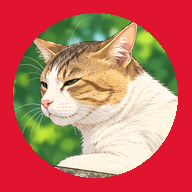
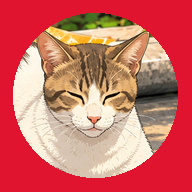
Use Mr. Bob's real photo instead of the 3D model
- Hero shows his sunny nap photo as a floating 3D glass card that tilts with the pointer
- Card reacts while listening, thinking and speaking; tap for hearts
- New face avatar and app icons; removed the Three.js model and extra photos

diff --git a/frontend/assets/cat.js b/frontend/assets/cat.js
@@ -1,80 +1,36 @@
-/* Mr. Bob, the 3D cat. Exposes window.MrBobCat = {state, hop(n), mount(el), onTap}. */
+/* Mr. Bob on screen: his photo, with a little life.
+   Exposes window.MrBobCat = {state, hop(n), mount(el), onTap}. */
 (function(){
 const reduce=matchMedia("(prefers-reduced-motion: reduce)").matches;
-const api={state:"idle",hop(){},mount(){},onTap:null,fallback:false};
-window.MrBobCat=api;
-const stage=document.getElementById("stage"),vstage=document.getElementById("vstage");
-let renderer=null,mx=0,my=0,jumpT=-1;
-if(window.THREE){
- const T=THREE;
- renderer=new T.WebGLRenderer({antialias:true,alpha:true});
- renderer.setPixelRatio(Math.min(devicePixelRatio||1,2));
- renderer.outputEncoding=T.sRGBEncoding;
- stage.appendChild(renderer.domElement);
- const scene=new T.Scene();
- const cam=new T.PerspectiveCamera(30,1,.1,100);
- scene.add(new T.HemisphereLight(0xffffff,0xd9c6cc,.75));
- const key=new T.DirectionalLight(0xffffff,.55);key.position.set(2,4,5);scene.add(key);
- const fill=new T.DirectionalLight(0xffe6ea,.25);fill.position.set(-3,1,2);scene.add(fill);
- const M=(c,o)=>new T.MeshStandardMaterial(Object.assign({color:c,roughness:.92,metalness:0},o||{}));
- const furW=M(0xfffaf6),peach=M(0xc78d55),tabby=M(0xc08a52),stripe=M(0x8d5c30),green=M(0x86b84a,{emissive:0x1e3308,roughness:.25}),pink=M(0xffb3c1),eyeM=M(0x1b1416,{roughness:.22}),glow=M(0xffffff,{emissive:0xffffff}),red=M(0xe0142f,{roughness:.55}),lip=M(0x6a4a50);
- const S=(r,m,x,y,z,sx,sy,sz,p)=>{const o=new T.Mesh(new T.SphereGeometry(r,48,36),m);o.position.set(x,y,z);o.scale.set(sx||1,sy||1,sz||1);p.add(o);return o};
- const cat=new T.Group();scene.add(cat);
- const bodyG=new T.Group();cat.add(bodyG);
- S(.62,furW,0,-1.02,0,1.05,.95,.95,bodyG);
- S(.36,tabby,.22,-.74,-.3,1.15,.7,.95,bodyG);S(.33,tabby,-.3,-1.12,-.38,1.1,.85,.9,bodyG);S(.31,tabby,.48,-1.39,.03,1.02,.77,1.22,bodyG);
- [-1,1].forEach(s=>{S(.3,furW,s*.48,-1.4,.05,1,.75,1.2,bodyG);S(.2,furW,s*.24,-1.52,.42,1,.62,1.15,bodyG);S(.05,pink,s*.24,-1.58,.62,1.2,.5,.5,bodyG)});
- const head=new T.Group();head.position.set(0,.1,0);cat.add(head);
- S(1,furW,0,0,0,1.18,.95,1,head);
- [-1,1].forEach(s=>S(.42,furW,s*.42,-.32,.5,1.05,.85,.8,head));
- S(1,tabby,0,.17,-.06,1.2,.86,.98,head);[-.2,0,.2].forEach((x,i)=>{const st=S(.05,stripe,x,.6-(i===1?.02:0),.79,1,2.6,.45,head);st.rotation.z=-x*.9});[-1,1].forEach(s=>[.18,.32].forEach(y=>{const st=S(.045,stripe,s*.98,y,.5,.6,1,2.4,head);st.rotation.y=s*.9}));
- const ear=s=>{const g=new T.Group();g.position.set(s*.68,.62,-.05);g.rotation.z=-s*.5;head.add(g);const o=new T.Mesh(new T.ConeGeometry(.34,.52,40),tabby);o.position.y=.24;o.scale.z=.72;g.add(o);const tip=new T.Mesh(new T.SphereGeometry(.06,16,12),tabby);tip.position.y=.49;g.add(tip);const i=new T.Mesh(new T.ConeGeometry(.2,.34,32),pink);i.position.set(0,.2,.1);i.scale.z=.45;g.add(i);return g};
- const earL=ear(-1),earR=ear(1);
- const eyes=[-1,1].map(s=>{const g=new T.Group();g.position.set(s*.4,-.06,.9);head.add(g);S(.21,eyeM,0,0,0,1,1.3,.5,g);S(.165,green,0,-.03,.05,1,1.25,.42,g);S(.095,eyeM,0,-.01,.09,.78,1.45,.4,g);S(.07,glow,.07,.1,.115,1,1,1,g);S(.033,glow,-.06,-.1,.12,1,1,1,g);return g});
- const blushM=new T.MeshBasicMaterial({color:0xff8fa6,transparent:true,opacity:.5,depthWrite:false});
- [-1,1].forEach(s=>{const b=new T.Mesh(new T.CircleGeometry(.11,32),blushM);b.position.set(s*.62,-.28,.8);b.rotation.y=s*.7;b.scale.y=.62;head.add(b)});
- S(.05,pink,0,-.26,.985,1.45,1,.8,head);
- [-1,1].forEach(s=>{const a=new T.Mesh(new T.TorusGeometry(.05,.012,8,20,Math.PI),lip);a.rotation.z=Math.PI;a.position.set(s*.05,-.33,.985);head.add(a)});
- const mouth=S(.07,M(0xe8768c),0,-.4,.96,1,.01,.4,head);
- const bow=new T.Group();bow.position.set(0,-.8,.6);bow.rotation.x=-.3;bow.scale.setScalar(.8);cat.add(bow);
- [-1,1].forEach(s=>{const c=new T.Mesh(new T.ConeGeometry(.17,.32,32),red);c.rotation.z=s*Math.PI/2;c.position.x=s*.16;c.scale.z=.55;bow.add(c)});
- S(.07,red,0,0,.02,1,1,.8,bow);
- const tail=[];for(let i=0;i<13;i++)tail.push(S(.13-i*.004,i%3===2?stripe:tabby,0,0,0,1,1,1,cat));
- const sc=document.createElement("canvas");sc.width=sc.height=128;const sx=sc.getContext("2d");const gr=sx.createRadialGradient(64,64,0,64,64,64);gr.addColorStop(0,"rgba(60,20,30,.32)");gr.addColorStop(1,"rgba(60,20,30,0)");sx.fillStyle=gr;sx.fillRect(0,0,128,128);
- const shadow=new T.Mesh(new T.PlaneGeometry(2.8,1.3),new T.MeshBasicMaterial({map:new T.CanvasTexture(sc),transparent:true,depthWrite:false}));shadow.rotation.x=-Math.PI/2;shadow.position.y=-1.72;scene.add(shadow);
- const hs=new T.Shape();hs.moveTo(0,.25);hs.bezierCurveTo(0,.3,-.05,.4,-.2,.4);hs.bezierCurveTo(-.45,.4,-.45,.12,-.45,.12);hs.bezierCurveTo(-.45,-.05,-.27,-.22,0,-.4);hs.bezierCurveTo(.27,-.22,.45,-.05,.45,.12);hs.bezierCurveTo(.45,.12,.45,.4,.2,.4);hs.bezierCurveTo(.05,.4,0,.3,0,.25);
- const hg=new T.ExtrudeGeometry(hs,{depth:.1,bevelEnabled:true,bevelSize:.04,bevelThickness:.04,bevelSegments:3});hg.center();hg.rotateZ(Math.PI);
- const hearts=[];
- api.hop=(n)=>{jumpT=0;for(let i=0;i<(n||0);i++){const h=new T.Mesh(hg,new T.MeshStandardMaterial({color:0xff4d6d,transparent:true,roughness:.5}));h.position.set((Math.random()-.5)*1.2,.9,.5);h.scale.setScalar(.18+Math.random()*.1);h.userData={vy:1+Math.random()*.6,vx:(Math.random()-.5)*.6,life:0};scene.add(h);hearts.push(h)}};
- const ray=new T.Raycaster(),pv=new T.Vector2();
- renderer.domElement.addEventListener("pointerdown",e=>{const r=renderer.domElement.getBoundingClientRect();pv.set((e.clientX-r.left)/r.width*2-1,-(e.clientY-r.top)/r.height*2+1);ray.setFromCamera(pv,cam);if(ray.intersectObject(cat,true).length){api.hop(3);const lines=["Meow! Ami Mr. Bob.","Hehe, sursuri lage!","Ki khobor, Jonayed?","Purr… always here for you."];if(api.onTap)api.onTap(lines[Math.floor(Math.random()*lines.length)])}});
- const fit=()=>{const p=renderer.domElement.parentNode;if(!p)return;const w=p.clientWidth,h=p.clientHeight;if(!w||!h)return;renderer.setSize(w,h,false);cam.aspect=w/h;cam.position.set(0,.05,Math.max(7.2,5.4/cam.aspect));cam.lookAt(0,-.35,0);cam.updateProjectionMatrix()};
- const ro=new ResizeObserver(fit);ro.observe(stage);ro.observe(vstage);
- addEventListener("pointermove",e=>{mx=e.clientX/innerWidth*2-1;my=e.clientY/innerHeight*2-1});
- let nextBlink=2,blinkT=-1,nextTwitch=3,twitchT=-1;const clock=new T.Clock();
- const loop=()=>{
-  const dt=Math.min(clock.getDelta(),.05),t=clock.elapsedTime,k=reduce?.3:1;
-  let jy=0,sq=1;if(jumpT>=0){jumpT+=dt;const p=jumpT/.6;if(p>=1)jumpT=-1;else{jy=Math.sin(p*Math.PI)*.45;sq=p<.15?1-p:p>.85?1-(1-p):1.05}}
-  const br=1+Math.sin(t*2.2)*.012*k;
-  cat.position.y=Math.sin(t*1.5)*.035*k+jy;bodyG.scale.set(1/Math.sqrt(sq),sq*br,1/Math.sqrt(sq));
-  shadow.scale.setScalar(1-jy*.5);shadow.material.opacity=1-jy;
-  const ty=api.state==="thinking"?Math.sin(t*1.2)*.3:mx*.4,tx=api.state==="thinking"?-.15:my*.2;
-  head.rotation.y+=(ty-head.rotation.y)*.07;head.rotation.x+=(tx-head.rotation.x)*.07;
-  const tz=api.state==="listening"?-.18:api.state==="thinking"?.15:Math.sin(t*.6)*.07*k;head.rotation.z+=(tz-head.rotation.z)*.06;
-  if(t>nextBlink){blinkT=0;nextBlink=t+2.2+Math.random()*3}
-  let ey=1;if(blinkT>=0){blinkT+=dt;ey=blinkT<.07?1-blinkT/.07*.92:blinkT<.15?.08+(blinkT-.07)/.08*.92:1;if(blinkT>.15)blinkT=-1}
-  if(jumpT>=0)ey=.15;
-  eyes.forEach(g=>g.scale.y=ey);
-  if(t>nextTwitch){twitchT=0;nextTwitch=t+3+Math.random()*4}
-  let tw=0;if(twitchT>=0){twitchT+=dt;tw=Math.sin(twitchT*30)*.14;if(twitchT>.3)twitchT=-1}
-  const perk=api.state==="listening"?.25:0;
-  earL.rotation.x+=(-perk-earL.rotation.x)*.1;earR.rotation.x+=(-perk-earR.rotation.x)*.1;earL.rotation.z=.5+tw;earR.rotation.z=-.5;
-  const mo=api.state==="speaking"?.15+Math.abs(Math.sin(t*13))*.85:jumpT>=0?.8:.01;mouth.scale.y+=(mo-mouth.scale.y)*.35;
-  let x=.45,y=-1.35,z=-.45;tail.forEach((s,i)=>{const a=Math.sin(t*2.2*k-i*.4)*.5*(i/12)+.35-(i>8?(i-8)*.3:0);x+=Math.sin(a)*.11;y+=Math.cos(a)*.11;z-=.03;s.position.set(x,y,z)});
-  for(let i=hearts.length-1;i>=0;i--){const h=hearts[i],u=h.userData;u.life+=dt;h.position.y+=u.vy*dt;h.position.x+=u.vx*dt;h.material.opacity=Math.max(0,1-u.life/1.4);if(u.life>1.4){scene.remove(h);h.material.dispose();hearts.splice(i,1)}}
-  renderer.render(scene,cam);requestAnimationFrame(loop)};
- api.mount=el=>{el.appendChild(renderer.domElement);fit()};
- fit();loop();
-}else{stage.insertAdjacentHTML("beforeend",'<div class="fallback"></div>');api.fallback=true}
+const pic=document.createElement("div");
+pic.className="bobpic";pic.dataset.state="idle";
+pic.innerHTML='<div class="bobglow"></div><div class="bobcard glass"><img src="/assets/bob.jpg" alt="Mr. Bob, a white and brown tabby cat, napping happily in the sun" draggable="false"></div>';
 
+let state="idle";
+const api={
+  get state(){return state},
+  set state(s){state=s;pic.dataset.state=s},
+  hop(n){pic.classList.remove("hop");void pic.offsetWidth;pic.classList.add("hop");for(let i=0;i<(n||0);i++)heart(i)},
+  mount(el){if(el)el.appendChild(pic)},
+  onTap:null,
+};
+window.MrBobCat=api;
+
+function heart(i){
+  const h=document.createElement("span");h.className="heart";h.textContent="♥";
+  h.style.left=(38+Math.random()*24)+"%";h.style.animationDelay=(i*.12)+"s";
+  pic.appendChild(h);setTimeout(()=>h.remove(),2000);
+}
+
+const lines=["Meow! Ami Mr. Bob.","Hehe, sursuri lage!","Ki khobor, Jonayed?","Purr… always here for you.","Shh… roder moddhe ghumacchilam."];
+pic.addEventListener("click",()=>{api.hop(3);if(api.onTap)api.onTap(lines[Math.floor(Math.random()*lines.length)])});
+
+// the photo tilts toward your pointer, like a card in your hand
+if(!reduce)addEventListener("pointermove",e=>{
+  const r=pic.getBoundingClientRect();if(!r.width)return;
+  const x=(e.clientX-(r.left+r.width/2))/innerWidth,y=(e.clientY-(r.top+r.height/2))/innerHeight;
+  pic.style.setProperty("--rx",(-y*16).toFixed(2)+"deg");pic.style.setProperty("--ry",(x*20).toFixed(2)+"deg");
+},{passive:true});
+
+api.mount(document.getElementById("stage"));
 })();

diff --git a/frontend/assets/style.css b/frontend/assets/style.css
@@ -46,7 +46,6 @@ nav b{font-weight:600;font-size:15px;white-space:nowrap}nav span{font-size:13px;
 .stage{position:relative;height:clamp(320px,44vw,440px);margin:6px auto 0;max-width:560px;cursor:pointer}
 .stage canvas,.vstage canvas{position:absolute;inset:0;width:100%!important;height:100%!important;display:block}
 .say{position:absolute;top:2%;left:50%;transform:translateX(-50%);max-width:min(88%,380px);width:max-content;padding:11px 18px;border-radius:22px;font-size:15px;z-index:2;pointer-events:none}
-.fallback{position:absolute;inset:22% 30%;border-radius:50%;background:radial-gradient(circle at 40% 35%,#fff,#ffe1e6 60%,#ffc2cc)}
 .ctas{display:flex;gap:12px;justify-content:center;flex-wrap:wrap}
 .pill{display:inline-flex;align-items:center;gap:10px;min-height:54px;padding:0 24px 0 9px;border-radius:999px;font-size:17px;font-weight:600}
 .pill.plain{padding:0 22px;font-weight:500}
@@ -186,17 +185,29 @@ h2.sub{font-size:22px;margin-top:10px;display:flex;align-items:center;gap:10px}
 .amt.in{color:var(--green)}.amt.out{color:var(--ink)}
 .log .item>span:first-child{width:70px!important}
 
-/* ---------- Mr. Bob's photos, floating in 3D around him ---------- */
-.stage{perspective:900px}
-.stage canvas{z-index:1}
-.photo{position:absolute;margin:0;width:min(34%,190px);aspect-ratio:3/4;padding:7px;border-radius:22px;z-index:0;
-  transform-style:preserve-3d;transition:transform .6s var(--spring);will-change:transform}
-.photo img{display:block;width:100%;height:100%;object-fit:cover;border-radius:16px;box-shadow:0 10px 30px rgba(80,20,40,.25)}
-.photo.p1{left:0;top:16%;transform:rotateY(calc(24deg + var(--px,0)*10deg)) rotateX(calc(var(--py,0)*-8deg)) rotateZ(-7deg) translateZ(-40px);animation:bob1 7s ease-in-out infinite}
-.photo.p2{right:0;top:30%;transform:rotateY(calc(-24deg + var(--px,0)*10deg)) rotateX(calc(var(--py,0)*-8deg)) rotateZ(6deg) translateZ(-40px);animation:bob2 8s ease-in-out infinite}
-@keyframes bob1{50%{translate:0 -12px}}
-@keyframes bob2{50%{translate:0 10px}}
+/* ---------- Mr. Bob: his photo, alive ---------- */
+.stage{perspective:1000px}
+.bobpic{position:absolute;inset:56px 0 0;display:grid;place-items:center;cursor:pointer;z-index:1;-webkit-tap-highlight-color:transparent}
+.vstage .bobpic{inset:0}
+.bobglow{position:absolute;width:72%;aspect-ratio:1;border-radius:50%;background:radial-gradient(closest-side,rgba(255,110,135,.55),transparent);filter:blur(24px);transition:scale .5s var(--spring),opacity .4s}
+.bobcard{width:min(94%,500px);aspect-ratio:4/3;padding:8px;border-radius:34px;transform:rotateX(var(--rx,0deg)) rotateY(var(--ry,0deg));transform-style:preserve-3d;transition:transform .6s var(--spring),scale .5s var(--spring);animation:float 5s ease-in-out infinite}
+.vstage .bobcard{width:min(88%,420px)}
+.bobcard img{display:block;width:100%;height:100%;object-fit:cover;border-radius:27px;user-select:none;box-shadow:0 14px 34px rgba(80,20,40,.22)}
+@keyframes float{50%{translate:0 -8px}}
+.bobpic[data-state=listening] .bobcard{scale:1.04}
+.bobpic[data-state=listening] .bobglow{scale:1.25;animation:pulse 1s ease-in-out infinite}
+.bobpic[data-state=thinking] .bobcard{animation:think 1.6s ease-in-out infinite}
+.bobpic[data-state=speaking] .bobcard{animation:talk .45s ease-in-out infinite}
+.bobpic[data-state=speaking] .bobglow{scale:1.3;opacity:1}
+@keyframes pulse{50%{opacity:.55}}
+@keyframes think{25%{rotate:-2deg}75%{rotate:2deg}}
+@keyframes talk{50%{scale:1.025}}
+.bobpic.hop .bobcard{animation:hop .65s var(--spring)}
+@keyframes hop{35%{translate:0 -26px;scale:1.04 .97}70%{translate:0 0;scale:1.03 .96}}
+.heart{position:absolute;bottom:38%;z-index:2;color:#ff3d64;font-size:30px;pointer-events:none;text-shadow:0 3px 8px rgba(120,0,30,.25);animation:heart 1.6s ease-out forwards}
+@keyframes heart{to{translate:0 -170px;scale:1.5;opacity:0}}
 .av,.av.big{background:url(/assets/bob-face.jpg) center/cover!important}
-@media(max-width:600px){.photo{width:30%}.photo.p1{top:22%}.photo.p2{top:38%}}
-@media(prefers-reduced-motion:reduce){.photo{animation:none}}
-.fallback{inset:auto!important;left:50%!important;top:52%!important;transform:translate(-50%,-50%);width:min(52%,230px);aspect-ratio:1;border-radius:50%;background:url(/assets/bob-face.jpg) center/cover!important;box-shadow:0 0 0 6px rgba(255,255,255,.7),0 18px 40px rgba(224,20,47,.25)}
+@media(prefers-reduced-motion:reduce){.bobcard,.bobglow,.heart{animation:none!important}}
+#stage{height:auto}
+#stage>.say{position:relative;top:auto;left:auto;transform:none;margin:4px auto 0;display:block}
+#stage .bobpic{position:relative;inset:auto;padding:14px 0 24px}

diff --git a/frontend/assets/app.js b/frontend/assets/app.js
@@ -78,11 +78,6 @@ $("#conns").addEventListener("click",async e=>{const b=e.target.closest(".sw");i
 $("#accounts").addEventListener("click",async e=>{if(e.target.id==="gOff"){await post("/google/disconnect");load()}if(e.target.id==="wakeSw"){setWake(!wakeOn);e.target.setAttribute("aria-checked",wakeOn)}});
 $("#briefNow").addEventListener("click",async()=>{toast("Sending your briefing to Telegram…");const r=await post("/briefing/morning").catch(e=>({text:""}));if(r.text){bubble("bob",r.text)}toast(r.text?"Briefing sent":"Couldn't make the briefing")});
 
-/* photos tilt with the pointer */
-const stageEl=$("#stage");
-addEventListener("pointermove",e=>{if(reduce)return;stageEl.style.setProperty("--px",(e.clientX/innerWidth*2-1).toFixed(3));stageEl.style.setProperty("--py",(e.clientY/innerHeight*2-1).toFixed(3))},{passive:true});
-addEventListener("scroll",()=>{if(!reduce)stageEl.style.setProperty("--py",Math.max(-1,Math.min(1,scrollY/400)).toFixed(3))},{passive:true});
-
 /* glass shine follows the pointer */
 addEventListener("pointermove",e=>{const g=e.target.closest&&e.target.closest(".glass");if(!g)return;const r=g.getBoundingClientRect();g.style.setProperty("--mx",(e.clientX-r.left)+"px");g.style.setProperty("--my",(e.clientY-r.top)+"px")},{passive:true});
 const io=new IntersectionObserver(es=>es.forEach(e=>{if(e.isIntersecting){e.target.classList.add("in");io.unobserve(e.target)}}),{threshold:.08});

diff --git a/frontend/index.html b/frontend/index.html
@@ -24,8 +24,6 @@
  <h1 id="hello">Hi, I'm Mr. Bob.</h1>
  <p>I keep an eye on your mail, calendar and weather, and tell you what matters. Talk to me in English, বাংলা or Banglish.</p>
  <div class="stage" id="stage">
-  <figure class="photo glass p1"><img src="/assets/bob-photo-1.jpg" alt="Mr. Bob resting in the sun"></figure>
-  <figure class="photo glass p2"><img src="/assets/bob-photo-2.jpg" alt="Mr. Bob napping on a wall under a tree"></figure>
   <div class="say glass" id="say">Purr… loading your day.</div>
  </div>
  <div class="ctas">
@@ -123,7 +121,6 @@
 
 <div class="toast glass" id="toast" hidden></div>
 
-<script src="https://cdnjs.cloudflare.com/ajax/libs/three.js/r128/three.min.js"></script>
 <script src="/assets/cat.js"></script>
 <script src="/assets/app.js"></script>
 </body>

diff --git a/frontend/sw.js b/frontend/sw.js
@@ -1,6 +1,6 @@
 /* Lets Mr. Bob install like an app and open even with a weak connection. */
-const CACHE = "mrbob-v2";
-const SHELL = ["/", "/assets/style.css", "/assets/app.js", "/assets/cat.js", "/assets/icon.svg", "/assets/bob-face.jpg", "/assets/bob-photo-1.jpg", "/assets/bob-photo-2.jpg", "/manifest.webmanifest"];
+const CACHE = "mrbob-v3";
+const SHELL = ["/", "/assets/style.css", "/assets/app.js", "/assets/cat.js", "/assets/icon.svg", "/assets/bob-face.jpg", "/assets/bob.jpg", "/manifest.webmanifest"];
 
 self.addEventListener("install", e => {
   e.waitUntil(caches.open(CACHE).then(c => c.addAll(SHELL)).then(() => self.skipWaiting()));

diff --git a/README.md b/README.md
@@ -23,12 +23,12 @@ Mr. Bob is a cute butler cat who keeps an eye on your day. He reads your Gmail a
 | Phone app | Install the dashboard on your home screen; it opens full-screen and works on weak connections. |
 | 12-hour time | Every time is shown and spoken as 12-hour (3:00 PM). |
 | Email drafts | He can write a Gmail draft for you. He never sends email or pays for anything himself. |
-| Dashboard | iOS 26 "Liquid Glass" style, with a 3D cat, today's widgets, chat, connections, activity log and a live monthly cost card. Can be added to your phone's home screen. |
+| Dashboard | iOS 26 "Liquid Glass" style, with Mr. Bob's photo as a living 3D card, today's widgets, chat, connections, activity log and a live monthly cost card. Can be added to your phone's home screen. |
 
 ## How it is built
 
 ```
-Phone / browser ──► Dashboard (HTML + Three.js) ──► FastAPI backend
+Phone / browser ──► Dashboard (HTML, CSS, JS) ──► FastAPI backend
 Telegram ─────────────────────────────────────────►    │
                                                        ├─ Brain: Claude (tools) → backup: Groq free tier
                                                        ├─ Ears: OpenAI speech-to-text → backup: Groq Whisper
@@ -51,7 +51,7 @@ mr-bob/
 │  ├─ voice/             speech-to-text and text-to-speech
 │  ├─ services/          email importance, checks, briefings, suggestions, costs
 │  └─ worker/            scheduler and Telegram listener
-├─ frontend/             the Liquid Glass dashboard and the 3D cat
+├─ frontend/             the Liquid Glass dashboard and Mr. Bob's photo
 ├─ tests/                unit tests
 ├─ Dockerfile, docker-compose.yml, Caddyfile
 └─ .env.example          every setting, explained
